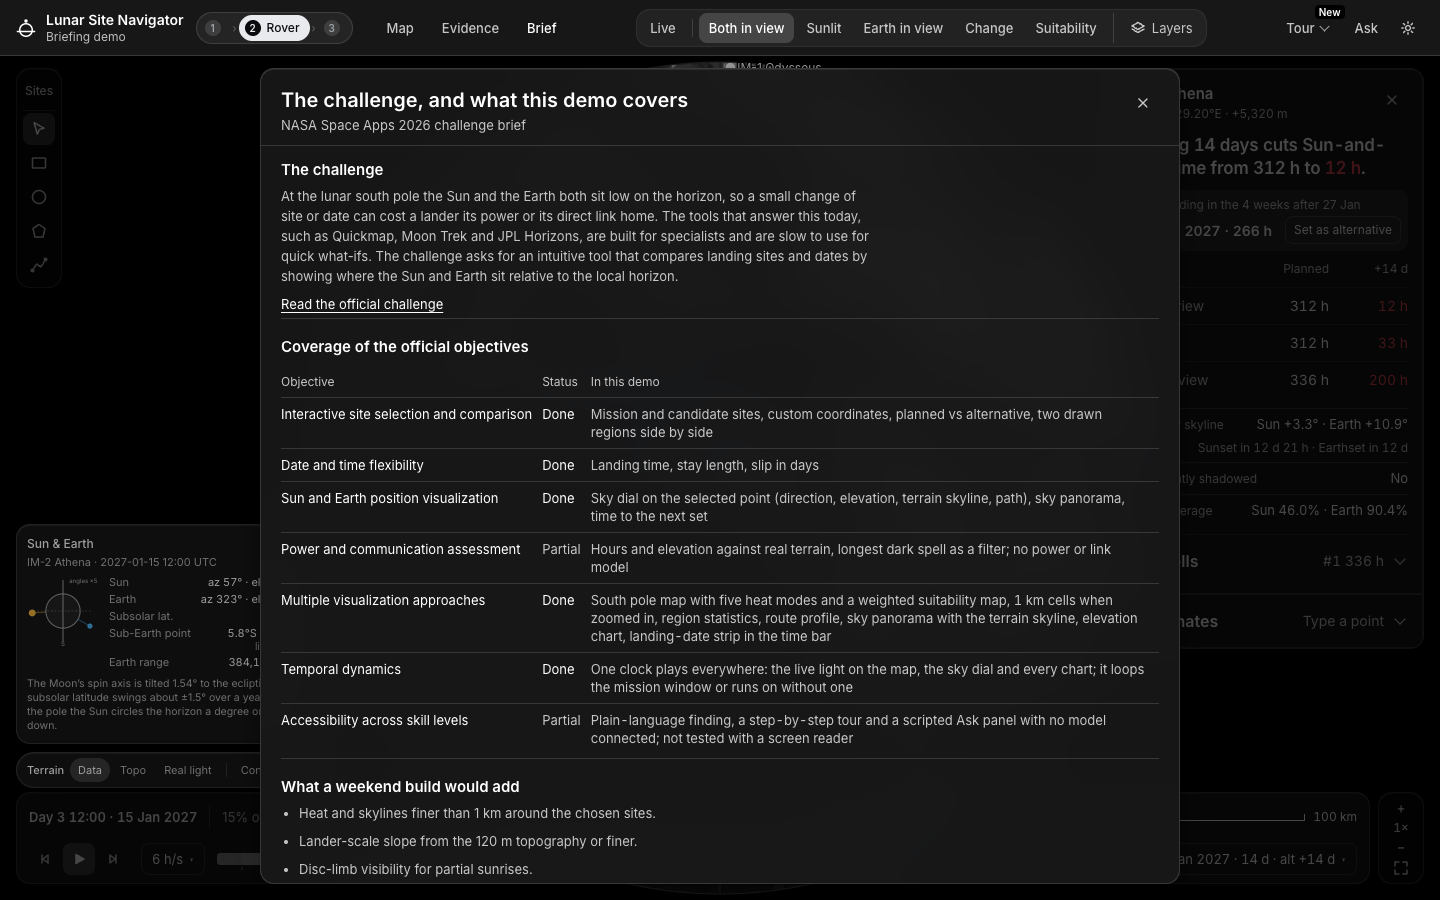
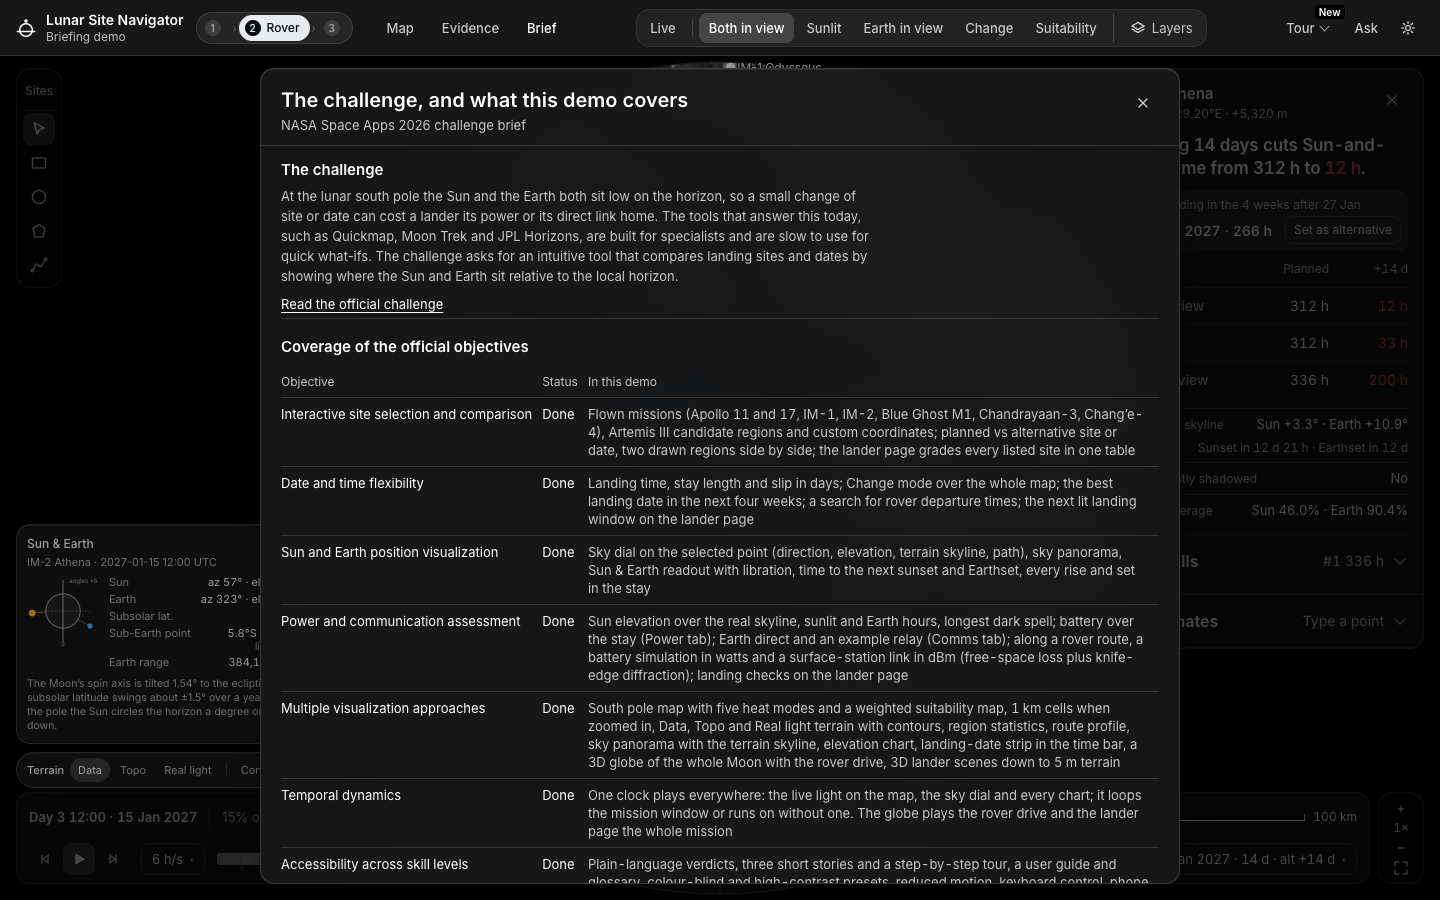
Guide: challenge coverage check, and the updated Brief screenshot

diff --git a/docs/guide/challenge-coverage.md b/docs/guide/challenge-coverage.md
@@ -1,0 +1,65 @@
+# Challenge coverage check
+
+*Checked 14 Nov 2026 against `main` at 64757b5 (Brief updated afterwards, see gap 1), using the running pages (screenshots in this guide), the source and
+the challenge text ("Lunar Landing Site Navigator", Space Apps 2026). Status: **Met**, **Met, with a limit**, or
+**Gap**.*
+
+**Back to the [guide](../GUIDE.md)**
+
+## Summary
+
+All seven objectives are covered, and every "potential consideration" is addressed. The weak points are listed
+under [Gaps and actions](#gaps-and-actions):
+
+* the in-app **Brief** described the pre-event state (**fixed**: it now matches this table);
+* the navigator has **no terrain horizon north of 80°S**;
+* the Sun and Earth are treated as points, with no disc size;
+* the pages were **not tested with a screen reader**.
+
+## 1. Objectives
+
+| # | Objective (challenge wording, shortened) | Status | What we built | Where | Evidence |
+|---|---|---|---|---|---|
+| 1a | Curated list of notable sites: Apollo, CLPS targets, other commercial missions, other countries' landings | Met | Apollo 11 and 17; CLPS: IM-1 Odysseus, IM-2 Athena, Blue Ghost M1; other countries: Chandrayaan-3 (India), Chang'e-4 (China); Artemis candidate regions (8 of NASA's 9, "approx." where the coordinates are ours); Shackleton ridge | Navigator *Sites*; lander *Site*; MCP `list_sites` | [navigator §9](navigator.md#9-the-site-list) |
+| 1b | Custom lunar coordinates | Met | *Custom site…*, the *Coordinates* panel (Pick this point), clicking anywhere on the map; the lander takes `?site=lat,lon` and the planner takes typed points anywhere on the Moon | Navigator, lander planner | [navigator §5](navigator.md#5-the-site-card), [lander §5](lander.md#5-choosing-where-to-land) |
+| 1c | Side-by-side or sequential comparison of several sites | Met, with a limit | Planned vs alternative (another site or a slipped date) in *Details → Compare*; regions A and B side by side; the site list shows each site's sunlit share; the lander planner grades all listed sites in one table; the scripted Ask compares 3 sites × 2 dates. The navigator compares **two scenarios at a time** in its own UI; larger tables go through Ask or the MCP `compare_scenarios` tool (24 scenarios) | Navigator, lander planner, Ask, `mcp/` | [navigator §6](navigator.md#6-the-sky-dial-and-the-details-sheet), [§8](navigator.md#8-regions-and-comparing-two-areas) |
+| 2a | Choose landing date and time | Met | Landing time (UTC), stay 7/14/30 days; the lander's requested time and *Next lit window* | Time bar summary, lander top bar | [navigator §7](navigator.md#7-time-bar-and-landing-slip) |
+| 2b | Explore how conditions change across lunar days or seasons | Met | Slip −14 to +14 days; *Change* mode; "best landing in the 4 weeks after"; the time bar's day-by-day strip of landing days; the ephemeris runs from 1 Nov 2026 to 1 Jan 2029 (about 27 lunar days, so the yearly seasonal drift shows); NASA's 18.6-year average; the route's departure search over 60 days | Navigator, route card | [navigator use case A](navigator.md#use-case-a-is-im-2s-landing-date-robust-to-a-two-week-slip) |
+| 3a | Sun and Earth position relative to the horizon at a site and date | Met | Sky dial on the map (rings of elevation, the terrain skyline, both paths); *Sky at the site* panorama with the real skyline; *Elevation over the stay* chart; Sun & Earth readout (azimuth, elevation, subsolar latitude, sub-Earth point with libration, Earth range); arrows at the view centre; real-light shading | Navigator; lander HUD and descent scene | [navigator §4](navigator.md#4-terrain-styles-contours-and-the-sun--earth-readout), [§6](navigator.md#6-the-sky-dial-and-the-details-sheet) |
+| 3b | Time remaining before sunset or Earthset | Met | Site card: "Sunset in 12 d 21 h · Earthset in 12 d"; Compare: first sunset and Earthset; the table of every rise and set; previous and next rise/set buttons on the time bar | Navigator | [navigator §5](navigator.md#5-the-site-card) |
+| 4a | Solar elevation angle | Met | Sun elevation above the skyline on the site card, the readout, the dial and the chart; peak Sun elevation in Compare; panel facing and tilt in *Power*; the route's panel power uses the Sun's elevation and the local skyline | Navigator, route card | [navigator §6](navigator.md#6-the-sky-dial-and-the-details-sheet) |
+| 4b | Duration of sunlight, Earth visibility windows | Met | Sunlit, Earth in view and both-in-view hours for the stay; longest dark spell; relay windows; strips over the stay | Site card, Details, Layers | [navigator §5](navigator.md#5-the-site-card) |
+| 4c | Is the site-date combination viable (power and communications)? | Met (more than asked) | *Power*: battery over the stay, hours empty, battery needed. *Comms*: Earth direct, an example relay, the longest blind spell. Route: a battery simulation in watts, surface-station link in dBm (free-space plus knife-edge), safe havens. Lander: landing checks with pass/near/fail and a verdict | Navigator, route card, lander | [route §5–7](navigator-route.md#5-battery-and-departure-search), [lander §5](lander.md#5-choosing-where-to-land) |
+| 5 | Multiple visualizations: 2D maps, 3D surface, others | Met | 2D polar map with six modes and three terrain styles plus contours; sky dial, panorama and charts; 3D whole-Moon globe with the rover drive; 3D lander scenes (transfer, lunar orbit, descent on 5 m terrain); minimap and elevation profile | All three pages | [GUIDE](../GUIDE.md) |
+| 6 | Temporal dynamics: animation or timelines over a lunar day or several days | Met | One clock drives the map (Live mode, Real light shadows), the dial and the charts, playing at 6 h/s with a loop over the mission window; the globe plays the rover drive; the lander plays the whole mission, real time on request | Time bar, globe playback, lander timeline | [navigator §7](navigator.md#7-time-bar-and-landing-slip) |
+| 7 | Accessible to mission planners, educators and the public | Met, with a limit | Planners: exact figures, Evidence sheet, exports (JSON, GeoJSON, CSV), MCP tools. Public and teachers: three two-minute stories ("Why the Sun never climbs here", "Why Earth can set", "What a two-week slip does"), a tour of the controls, a plain-language verdict sentence, Ask, this guide and glossary. Accessibility features: colour-blind and high-contrast presets, reduce motion, skip link, aria labels, keyboard control, phone layouts. **Not tested with a screen reader** | Navigator; docs | [navigator §11](navigator.md#11-evidence-brief-tour-ask-settings) |
+
+## 2. Potential considerations
+
+| Consideration | Status | How |
+|---|---|---|
+| Ephemeris from JPL Horizons or pre-computed data | Met | Pre-computed JPL Horizons (DE441), 3-hour steps, 1 Nov 2026 to 1 Jan 2029, interpolated. Checked against a second Horizons request from the surface at four sites: largest difference 0.006° over 968 comparisons (Evidence sheet) |
+| LOLA topography for realistic surfaces and horizons | Met | LOLA GDR global (7.6 km, 1.9 km, 474 m), polar 240 m to 20 m, 5–20 m patches at the listed south-pole sites; skylines ray-cast over 300 km with curvature |
+| No atmosphere: horizon from local terrain and the edge of the lunar sphere | Met, with a limit | No refraction anywhere; the skyline is terrain plus curvature from 2 m eye height. **Limit:** north of 80°S the navigator uses a smooth sphere at 0°, not terrain (the lander's planner does compute a terrain skyline anywhere from global LOLA, `lander/skyline.js`). "In view" means the centre of the disc, so a partly risen Sun counts as down |
+| Solar elevation displayed prominently | Met | On the site card's "Now, over skyline" line, the readout, the dial and the map arrows |
+| Rapid scenario comparison | Met | Slip and alternative in one click; Change mode over the whole map; best cells; regions; Ask; MCP batch tools |
+| Communicating time to sunset or Earthset | Met | Countdown on the site card and in the rises-and-sets table |
+| Showing extreme lunar vs terrestrial conditions | Met | Real light with 40 km cast shadows; the readout explains the 1.54° tilt; tour stories; long shadows in the descent view; the PSR layer |
+| Why small location or date changes matter | Met | Verdict sentence ("Slipping 14 days cuts Sun-and-Earth time from 312 h to 12 h"); Change mode; best cells 20 km apart; the lander planner's "better spots nearby" |
+| Actual topography in horizon and visibility | Met (south of 80°S) | See the limit above |
+| Earth's libration and the Moon's orbital variations | Met | The Earth direction comes from the Horizons ephemeris, including libration and parallax from the site; the readout shows the sub-Earth point and Earth range; NASA's 18.6-year average is a layer |
+| Steep slopes, deep craters, extreme shadows at the south pole | Met | Slope filter and suitability; PSR map; real-light shadows; 5 m descent terrain; slope colours in 2D, 3D and the descent map; route mobility (one-way, traps) |
+| Coordination between science and engineering teams | Met | Saved missions and exports; the Evidence sheet; links that carry the scenario; one mission across three pages |
+| Responding to schedule or hardware changes | Met | Slip, alternative date, departure search, editable vehicle and rover assumptions with Replan, contingency branches |
+| Education | Met | Stories, tour, glossary, this guide, the NASA planning chapter |
+
+## Gaps and actions
+
+| # | Gap | Effect on judging | Suggested action | Owner |
+|---|---|---|---|---|
+| 1 | **Fixed 14 Nov.** ~~The in-app Brief (`demo/src/ui/brief.js`) is out of date.~~ It rates "Power and communication assessment" *Partial*, saying "no power or link model", while the battery simulation, the dBm link model and the lander checks now exist. It rates accessibility *Partial*. Its "What a weekend build would add" list names work that is already done: finer terrain, lander-scale slope, a power and link budget, an exportable table, a real Ask model, and "a review of the official resources, due on 13 Nov" | Was high | Done: all seven objectives now read *Done* with what covers them, and *What is still left* lists gaps 2–6 below | `demo/src/ui/brief.js`, rebuilt `demo/index.html` |
+| 2 | **No terrain horizon north of 80°S in the navigator.** Apollo 11 and 17, Blue Ghost M1, Chandrayaan-3 and Chang'e-4 get a smooth-sphere 0° horizon | Medium: the curated list includes them | Say so on their site card (the MCP results already say it), or reuse `lander/skyline.js` (global LOLA skyline) for those sites | Code |
+| 3 | **Point Sun and Earth**: no disc size (the Sun is 0.5° and Earth 1.9° wide), no partial sunrise, no Earthshine | Low; it is stated in Evidence and on the panorama | Optional: count the "upper limb above the skyline" as a second figure | Code |
+| 4 | **The ephemeris stops at 1 Jan 2029 and starts on 1 Nov 2026**, so past landings (Apollo, IM-1, IM-2) cannot be replayed on their real dates | Low; stated in the FAQ | Optional: add a historical Horizons pack | Data |
+| 5 | **Comparison of more than two scenarios** at once is only in Ask (scripted) and MCP, not in a navigator table | Low to medium | Optional: a "compare sites" table from `compare_scenarios` | Code |
+| 6 | **Screen reader not tested** | Low | Run VoiceOver once over the main flow and note the result | Test |

diff --git a/docs/guide/navigator.md b/docs/guide/navigator.md
@@ -208,7 +208,7 @@ opens the route card with the site as the start, **See it in 3D →** opens the 
 | | |
 |---|---|
 | ![Evidence and limits](../img/guide/nav-evidence.png) | **Evidence** — who the tool is for, what goes in and out, which step depends on NASA data, and the check behind the main claim: the angles were requested from Horizons a second time with the observer on the surface at four sites; across 968 comparisons the largest difference was 0.006°. |
-| ![The challenge brief](../img/guide/nav-brief.png) | **Brief** — the Space Apps challenge, a table of the official objectives with what the demo does for each (Done / Partial) and what a longer build would add. |
+| ![The challenge brief](../img/guide/nav-brief.png) | **Brief** — the Space Apps challenge, a table of the seven official objectives with what the tool does for each, what is still left, and open questions for the team. The full check is in [challenge-coverage.md](challenge-coverage.md). |
 | ![Tour menu](../img/guide/nav-tour-menu.png) | **Tour** — three two-minute stories (*Why the Sun never climbs here*, *Why Earth can set*, *What a two-week slip does*) and a *Tour of the controls*. |
 | ![Ask panel](../img/guide/nav-ask-answer.png) | **Ask** — questions in plain words. By default it is a **scripted offline demo**: the answers come from the page's own commands (here "Show the best 3 cells in this mode"). With your own key it can use an Anthropic or OpenAI-compatible model (Settings). |
 | ![Settings](../img/guide/nav-settings.png) | **Settings** — colour preset (default, colour-blind safe, high contrast), smooth heat map, panel transparency, scale bar, sky dial, reduce motion; the AI provider; data sources; export, import and reset. Saved in this browser only. |

diff --git a/docs/GUIDE.md b/docs/GUIDE.md
@@ -47,6 +47,8 @@ becomes the rover's start.
   and sites are chosen, trajectory design, landing accuracy, CLPS robotic landers, surface operations; for each, which
   part of this tool does it and what it simplifies. With sources.
 * **[Glossary](guide/glossary.md)** — PSR, skyline, libration, NRHO, Δv, ellipse, B-RRT\* and more, in plain words.
+* **[Challenge coverage](guide/challenge-coverage.md)** — each official objective and consideration, what covers it, and the
+  remaining gaps.
 * **[Troubleshooting and FAQ](guide/faq.md)** — no data north of 80°S, dates outside 2026–2028, slow first load,
   cleared storage.
 * Reference: [VARIABLES.md](VARIABLES.md) (every number the tool uses and its source), [LANDER.md](LANDER.md)
